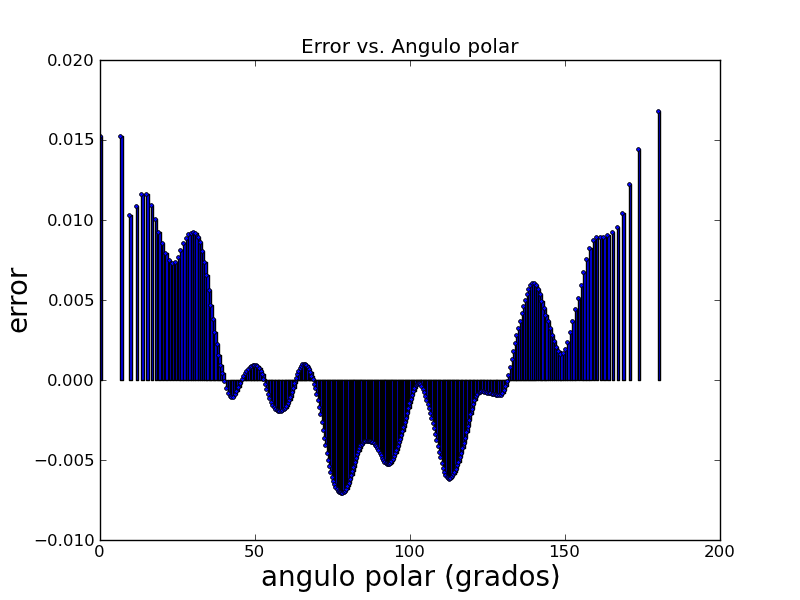
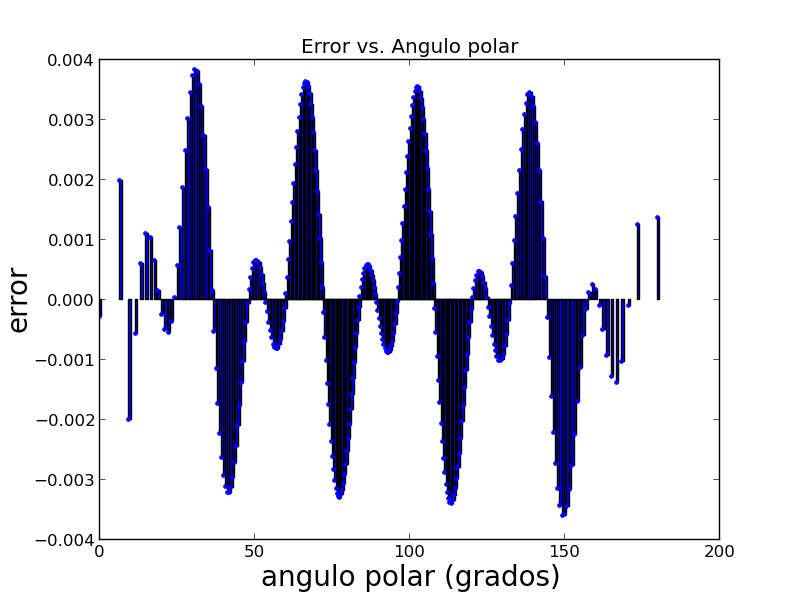
Final

Changed region(s): [[0.0625, 0.09, 0.9062, 0.93], [0.0625, 0.75, 0.125, 0.81], [0.0625, 0.69, 0.125, 0.72]]

diff --git a/Tarea_4.py b/Tarea_4.py
@@ -211,7 +211,10 @@ for i in range ((filas/6)-1):
 	F = np.concatenate((F,calc))
 
 	# Regresion seno
-sinTheta = np.sin(angulos)
+from numpy import pi
+sinTheta = np.sin(angulos*2*pi/360)
+print angulos
+print sinTheta
 sinTheta = np.transpose(sinTheta)
 v1 = np.array(sinTheta[0,:])[0,:]
 f0,c0 = np.polyfit(v1,F,1)
